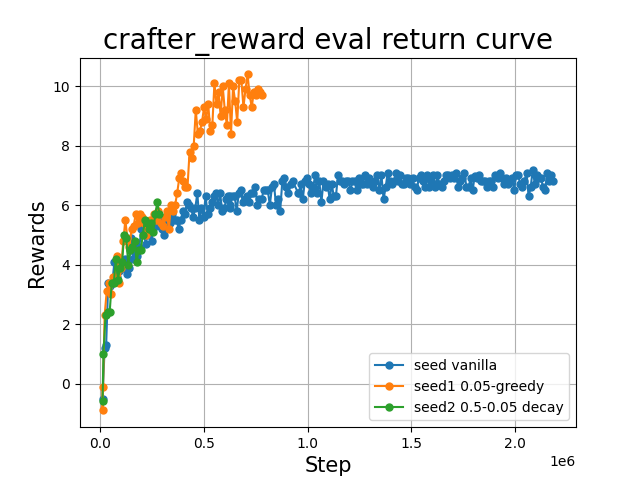
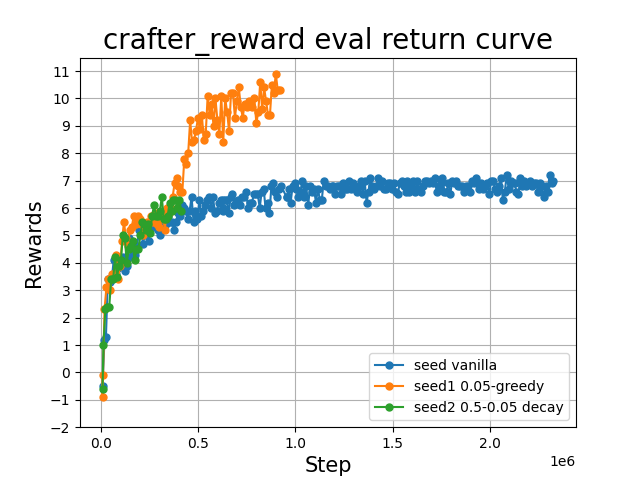
rnd running

diff --git a/ding/reward_model/rnd_reward_model.py b/ding/reward_model/rnd_reward_model.py
@@ -18,7 +18,7 @@ import numpy as np
 
 
 class Replay_Memory():
-    def __init__(self, memory_size=1e6, burn_in=10000):
+    def __init__(self, memory_size=1000000, burn_in=10000):
         # The memory essentially stores transitions recorder from the agent
         # taking actions in the environment.
 
@@ -106,66 +106,66 @@ class RndRewardModel(BaseRewardModel):
             ``reward_norm_max``                        | normalization
         == ====================  =====  =============  =======================================  =======================
     """
-    config = dict(
-        # (str) Reward model register name, refer to registry ``REWARD_MODEL_REGISTRY``.
-        type='rnd',
-        # (str) The intrinsic reward type, including add, new, or assign.
-        intrinsic_reward_type='add',
-        # (float) The step size of gradient descent.
-        learning_rate=1e-3,
-        # (float) Batch size.
-        batch_size=128,
-        # (list(int)) Sequence of ``hidden_size`` of reward network.
-        # If obs.shape == 1,  use MLP layers.
-        # If obs.shape == 3,  use conv layer and final dense layer.
-        hidden_size_list=[64, 64, 128],
-        # (int) How many updates(iterations) to train after collector's one collection.
-        # Bigger "update_per_collect" means bigger off-policy.
-        # collect data -> update policy-> collect data -> ...
-        update_per_collect=100,
-        # (bool) Observation normalization: transform obs to mean 0, std 1.
-        obs_norm=True,
-        # (int) Min clip value for observation normalization.
-        obs_norm_clamp_min=-1,
-        # (int) Max clip value for observation normalization.
-        obs_norm_clamp_max=1,
-        # Means the relative weight of RND intrinsic_reward.
-        # (float) The weight of intrinsic reward
-        # r = intrinsic_reward_weight * r_i + r_e.
-        intrinsic_reward_weight=0.01,
-        # (bool) Whether to normlize extrinsic reward.
-        # Normalize the reward to [0, extrinsic_reward_norm_max].
-        extrinsic_reward_norm=True,
-        # (int) The upper bound of the reward normalization.
-        extrinsic_reward_norm_max=1,
-    )
+    # config = dict(
+    #     # (str) Reward model register name, refer to registry ``REWARD_MODEL_REGISTRY``.
+    #     type='rnd',
+    #     # (str) The intrinsic reward type, including add, new, or assign.
+    #     intrinsic_reward_type='add',
+    #     # (float) The step size of gradient descent.
+    #     learning_rate=1e-3,
+    #     # (float) Batch size.
+    #     batch_size=128,
+    #     # (list(int)) Sequence of ``hidden_size`` of reward network.
+    #     # If obs.shape == 1,  use MLP layers.
+    #     # If obs.shape == 3,  use conv layer and final dense layer.
+    #     hidden_size_list=[64, 64, 128],
+    #     # (int) How many updates(iterations) to train after collector's one collection.
+    #     # Bigger "update_per_collect" means bigger off-policy.
+    #     # collect data -> update policy-> collect data -> ...
+    #     update_per_collect=100,
+    #     # (bool) Observation normalization: transform obs to mean 0, std 1.
+    #     obs_norm=True,
+    #     # (int) Min clip value for observation normalization.
+    #     obs_norm_clamp_min=-1,
+    #     # (int) Max clip value for observation normalization.
+    #     obs_norm_clamp_max=1,
+    #     # Means the relative weight of RND intrinsic_reward.
+    #     # (float) The weight of intrinsic reward
+    #     # r = intrinsic_reward_weight * r_i + r_e.
+    #     intrinsic_reward_weight=0.01,
+    #     # (bool) Whether to normlize extrinsic reward.
+    #     # Normalize the reward to [0, extrinsic_reward_norm_max].
+    #     extrinsic_reward_norm=True,
+    #     # (int) The upper bound of the reward normalization.
+    #     extrinsic_reward_norm_max=1,
+    # )
 
     def __init__(self, config: EasyDict, device: str) -> None:  # noqa
         super(RndRewardModel, self).__init__()
         self.cfg = config
         assert device == "cpu" or device.startswith("cuda")
         self.device = device
-        self.reward_model = RndNetwork(config.obs_shape, config.hidden_size_list)
+        self.reward_model = RndNetwork(config['obs_shape'], config['hidden_size_list'])
         self.reward_model.to(self.device)
-        self.intrinsic_reward_type = config.intrinsic_reward_type
+        self.intrinsic_reward_type = config['intrinsic_reward_type']
         assert self.intrinsic_reward_type in ['add', 'new', 'assign']
         self.train_obs = Replay_Memory()
-        self.opt = optim.Adam(self.reward_model.predictor.parameters(), config.learning_rate)
+        self.opt = optim.Adam(self.reward_model.predictor.parameters(), config['learning_rate'])
         self._running_mean_std_rnd_reward = RunningMeanStd(epsilon=1e-4)
         self.estimate_cnt_rnd = 0
         self.train_cnt_icm = 0
         self._running_mean_std_rnd_obs = RunningMeanStd(epsilon=1e-4)
 
-    def _compute_loss(self, train=True) -> None:
-        train_data = self.train_obs.sample_batch(self.cfg.batch_size)
+    def _compute_loss(self, train=False) -> None:
+        train_data = self.train_obs.sample_batch(self.cfg['batch_size'])
         train_data: torch.Tensor = torch.stack(train_data).to(self.device)
-        if self.cfg.obs_norm:
+        if self.cfg['obs_norm']:
             # Note: observation normalization: transform obs to mean 0, std 1
-            self._running_mean_std_rnd_obs.update(train_data.cpu().numpy())
+            self._running_mean_std_rnd_obs.update(train_data.detach().cpu().numpy())
             train_data = (train_data - to_tensor(self._running_mean_std_rnd_obs.mean).to(self.device)) / to_tensor(
                 self._running_mean_std_rnd_obs.std
             ).to(self.device)
-            train_data = torch.clamp(train_data, min=self.cfg.obs_norm_clamp_min, max=self.cfg.obs_norm_clamp_max)
+            train_data = torch.clamp(train_data, min=self.cfg['obs_norm_clamp_min'], max=self.cfg['obs_norm_clamp_max'])
 
         predict_feature, target_feature = self.reward_model(train_data)
         loss = F.mse_loss(predict_feature, target_feature.detach())
@@ -178,9 +178,10 @@ class RndRewardModel(BaseRewardModel):
         
 
     def train(self) -> None:
-        for _ in range(self.cfg.update_per_collect):
-            self._train()
-            self.train_cnt_icm += 1
+        return self._compute_loss()
+        # for _ in range(self.cfg['update_per_collect']):
+        #     self._compute_loss()
+        #     self.train_cnt_icm += 1
 
     def estimate(self, obs):
         """
@@ -193,16 +194,20 @@ class RndRewardModel(BaseRewardModel):
         # obs = collect_states(train_data_augmented)
         # obs = torch.stack(obs).to(self.device)
 
-        if self.cfg.obs_norm:
+        if self.cfg['obs_norm']:
             # Note: observation normalization: transform obs to mean 0, std 1
             obs = (obs - to_tensor(self._running_mean_std_rnd_obs.mean
                                    ).to(self.device)) / to_tensor(self._running_mean_std_rnd_obs.std).to(self.device)
-            obs = torch.clamp(obs, min=self.cfg.obs_norm_clamp_min, max=self.cfg.obs_norm_clamp_max)
+            obs = torch.clamp(obs, min=self.cfg['obs_norm_clamp_min'], max=self.cfg['obs_norm_clamp_max'])
 
         with torch.no_grad():
             predict_feature, target_feature = self.reward_model(obs)
-            mse = F.mse_loss(predict_feature, target_feature, reduction='none').mean(dim=1)
+            # print(predict_feature.shape)
+            # print(target_feature.shape)
+            mse = F.mse_loss(predict_feature, target_feature, reduction='none').mean(dim=-1)
+            # checkpoint!
             self._running_mean_std_rnd_reward.update(mse.cpu().numpy())
+            # print(mse.shape)
 
             # Note: according to the min-max normalization, transform rnd reward to [0,1]
             rnd_reward = (mse - mse.min()) / (mse.max() - mse.min() + 1e-8)
@@ -210,7 +215,7 @@ class RndRewardModel(BaseRewardModel):
             # save the rnd_reward statistics into tb_logger
             self.estimate_cnt_rnd += 1
 
-            rnd_reward = rnd_reward.to(self.device)
+            # rnd_reward = rnd_reward.to(self.device)
             # rnd_reward = torch.chunk(rnd_reward, rnd_reward.shape[0], dim=0)
         
         """
@@ -237,7 +242,7 @@ class RndRewardModel(BaseRewardModel):
         # # save the augmented_reward statistics into tb_logger
         # rew = [item['reward'].cpu().numpy() for item in train_data_augmented]
         # return train_data_augmented
-        return rnd_reward
+        return rnd_reward.unsqueeze(-1)
 
     def collect_data(self, data) -> None:
         for obs in data:

diff --git a/models.py b/models.py
@@ -124,42 +124,43 @@ class WorldModel(nn.Module):
         self._scales = dict(reward=config.reward_scale, cont=config.cont_scale)
 
         #RND network
-        self.rnd_cfg = dict(
-                            obs_shape=config.dyn_stoch+config.dyn_deter,
-                            # (str) Reward model register name, refer to registry ``REWARD_MODEL_REGISTRY``.
-                            type='rnd',
-                            # (str) The intrinsic reward type, including add, new, or assign.
-                            intrinsic_reward_type='add',
-                            # (float) The step size of gradient descent.
-                            learning_rate=1e-3,
-                            # (float) Batch size.
-                            batch_size=128,
-                            # (list(int)) Sequence of ``hidden_size`` of reward network.
-                            # If obs.shape == 1,  use MLP layers.
-                            # If obs.shape == 3,  use conv layer and final dense layer.
-                            hidden_size_list=[64, 64, 128],
-                            # (int) How many updates(iterations) to train after collector's one collection.
-                            # Bigger "update_per_collect" means bigger off-policy.
-                            # collect data -> update policy-> collect data -> ...
-                            update_per_collect=100,
-                            # (bool) Observation normalization: transform obs to mean 0, std 1.
-                            obs_norm=True,
-                            # (int) Min clip value for observation normalization.
-                            obs_norm_clamp_min=-1,
-                            # (int) Max clip value for observation normalization.
-                            obs_norm_clamp_max=1,
-                            # Means the relative weight of RND intrinsic_reward.
-                            # (float) The weight of intrinsic reward
-                            # r = intrinsic_reward_weight * r_i + r_e.
-                            intrinsic_reward_weight=0.01,
-                            # (bool) Whether to normlize extrinsic reward.
-                            # Normalize the reward to [0, extrinsic_reward_norm_max].
-                            extrinsic_reward_norm=True,
-                            # (int) The upper bound of the reward normalization.
-                            extrinsic_reward_norm_max=1,
-                        )
-        # self.rnd_model = RndRewardModel(self.rnd_cfg, self._device)
-        # self.rnd_model.apply(tools.weight_init)
+        if self._config.curiosity == 'rnd':
+            self.rnd_cfg = dict(
+                                obs_shape=config.dyn_hidden+config.dyn_deter,
+                                # (str) Reward model register name, refer to registry ``REWARD_MODEL_REGISTRY``.
+                                type='rnd',
+                                # (str) The intrinsic reward type, including add, new, or assign.
+                                intrinsic_reward_type='add',
+                                # (float) The step size of gradient descent.
+                                learning_rate=1e-3,
+                                # (float) Batch size.
+                                batch_size=64,
+                                # (list(int)) Sequence of ``hidden_size`` of reward network.
+                                # If obs.shape == 1,  use MLP layers.
+                                # If obs.shape == 3,  use conv layer and final dense layer.
+                                hidden_size_list=[64, 64, 128],
+                                # (int) How many updates(iterations) to train after collector's one collection.
+                                # Bigger "update_per_collect" means bigger off-policy.
+                                # collect data -> update policy-> collect data -> ...
+                                update_per_collect=1,
+                                # (bool) Observation normalization: transform obs to mean 0, std 1.
+                                obs_norm=True,
+                                # (int) Min clip value for observation normalization.
+                                obs_norm_clamp_min=-1,
+                                # (int) Max clip value for observation normalization.
+                                obs_norm_clamp_max=1,
+                                # Means the relative weight of RND intrinsic_reward.
+                                # (float) The weight of intrinsic reward
+                                # r = intrinsic_reward_weight * r_i + r_e.
+                                intrinsic_reward_weight=0.01,
+                                # (bool) Whether to normlize extrinsic reward.
+                                # Normalize the reward to [0, extrinsic_reward_norm_max].
+                                extrinsic_reward_norm=True,
+                                # (int) The upper bound of the reward normalization.
+                                extrinsic_reward_norm_max=1,
+                            )
+            self.rnd_model = RndRewardModel(self.rnd_cfg, self._config.device)
+            self.rnd_model.reward_model.apply(tools.weight_init)
 
     def _train(self, data):
         # action (batch_size, batch_length, act_dim)
@@ -366,19 +367,26 @@ class ImagBehavior(nn.Module):
                     start, self.actor, self._config.imag_horizon, repeats
                 )
 
-                # self._world_model.rnd_model.collect_data(imag_feat)
-                # rnd_loss = self._world_model.rnd_model._train()
-                # rnd_reward = self._world_model.rnd_model.estimate(imag_feat)
-                
-
                 if isinstance(self._config.num_actions, list):
                     imag_action = [imag_action[..., self._config.action_idxs[i]:self._config.action_idxs[i+1]]
                                    for i in range(self._config.action_dims)]
                     # print(torch.stack([torch.argmax(imag_action[i], axis=-1) for i in range(self._config.action_dims)], axis=-1).shape)
 
-                
                 reward = objective(imag_feat, imag_state, imag_action)
-                # reward += rnd_reward
+                
+                # print(imag_feat.reshape(-1, imag_feat.size(-1)).shape)
+
+                if self._config.curiosity == 'rnd':
+                    self._world_model.rnd_model.collect_data(imag_feat.reshape(-1, imag_feat.size(-1)).detach())
+                    
+                    rnd_loss = self._world_model.rnd_model.train()
+
+                    rnd_reward = self._world_model.rnd_model.estimate(imag_feat)
+                    metrics["rnd_loss"] = to_np(rnd_loss)
+                    metrics.update(tools.tensorstats(rnd_reward, "rnd_reward"))
+                    reward += rnd_reward
+
+                
                 policy = self.actor(imag_feat)
                 actor_ent = policy.entropy()
                 state_ent = self._world_model.dynamics.get_dist(imag_state).entropy()
@@ -459,7 +467,13 @@ class ImagBehavior(nn.Module):
             # actor and value loss backprop
             metrics.update(self._actor_opt(actor_loss, self.actor.parameters()))
             metrics.update(self._value_opt(value_loss, self.value.parameters()))
+            
+            self._world_model.rnd_model.opt.zero_grad()
+            rnd_loss.backward()
+            self._world_model.rnd_model.opt.step()
+
         return imag_feat, imag_state, imag_action, weights, metrics
+
 
     def _imagine(self, start, policy, horizon, repeats=None):
         dynamics = self._world_model.dynamics

diff --git a/plot.py b/plot.py
@@ -2,6 +2,7 @@ import numpy as np
 import matplotlib.pyplot as plt
 import json
 import ast
+import math
 
 import argparse
 
@@ -25,6 +26,9 @@ if __name__ == "__main__":
     methods = ["vanilla", "0.05-greedy", "0.5-0.05 decay"]
     seeds = ["", "1", "2"]
 
+    rmin = 0
+    rmax = 0
+
     for k in range(len(seeds)):
         steps = []
         rewards = []
@@ -42,11 +46,14 @@ if __name__ == "__main__":
                 if return_mode in d:
                     rewards.append(d[return_mode])
                     steps.append(d["step"])
+                    rmin = min(rmin, d[return_mode])
+                    rmax = max(rmax, d[return_mode])
 
         plt.plot(steps, rewards, '-o', markersize=5, label="seed{0} {1}".format(seeds[k], methods[k]))
 
 
     plt.grid(True)
+    plt.yticks(np.arange(math.floor(rmin-1), math.ceil(rmax+1), 1.0))
     plt.xlabel('Step', fontsize = 15)
     plt.ylabel('Rewards', fontsize = 15)
     plt.legend(loc='lower right', bbox_to_anchor=(0.5, 0., 0.5, 0.5))

diff --git a/envs/minecraft.py b/envs/minecraft.py
@@ -573,6 +573,8 @@ class Minecraft(gym.Wrapper):
         if obs["health"] <= 0.0:
             reward = -10
             print("WASTED!!!")
+            # done = True
+
         return obs, reward, done, info
 
     def reset(self):
@@ -626,7 +628,7 @@ class HealthReward:
 
     def __call__(self, obs, inventory=None):
         health = obs["health"]
-        if obs["is_first"]:
+        if obs["is_first"] or (not self.previous):
             self.previous = health
             return 0
         delta_health = health - self.previous

diff --git a/dreamer.py b/dreamer.py
@@ -295,7 +295,7 @@ def main(config):
     tools.set_seed_everywhere(config.seed)
     if config.deterministic_run:
         tools.enable_deterministic_run()
-    # config.logdir += str(config.seed)
+    config.logdir += str(config.seed)
     logdir = pathlib.Path(config.logdir).expanduser()
     config.traindir = config.traindir or logdir / "train_eps"
     config.evaldir = config.evaldir or logdir / "eval_eps"
